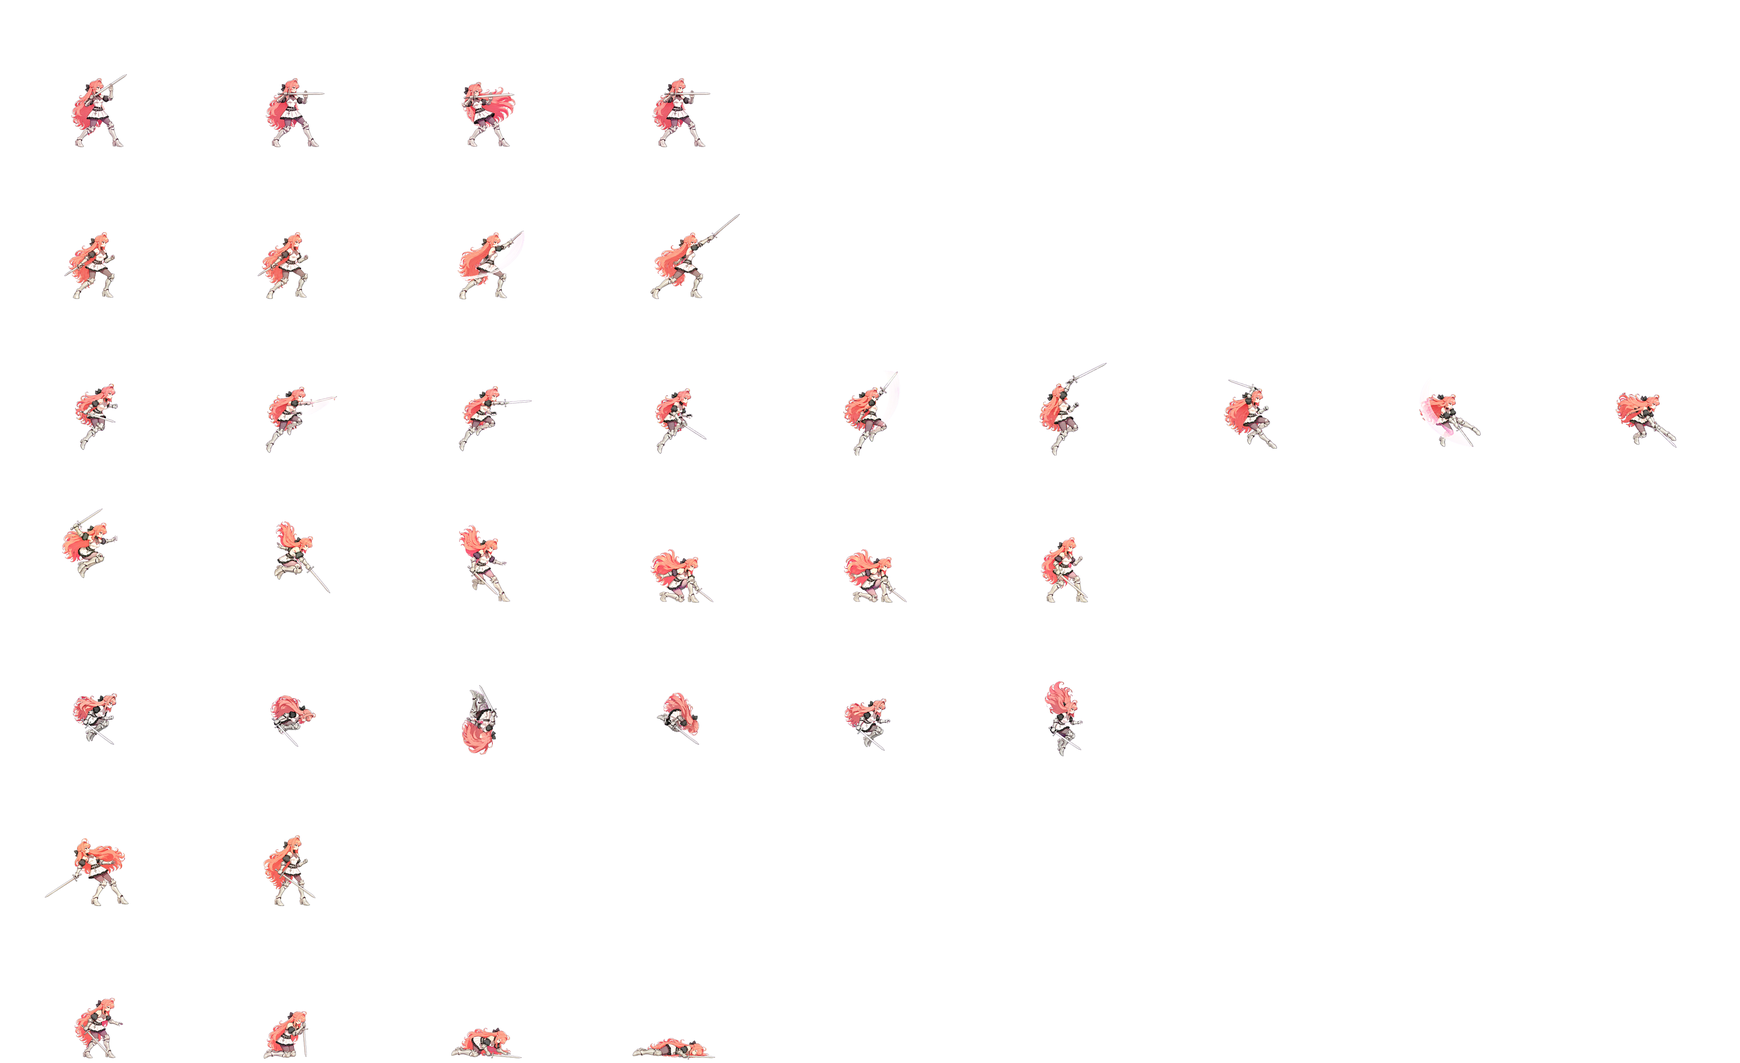
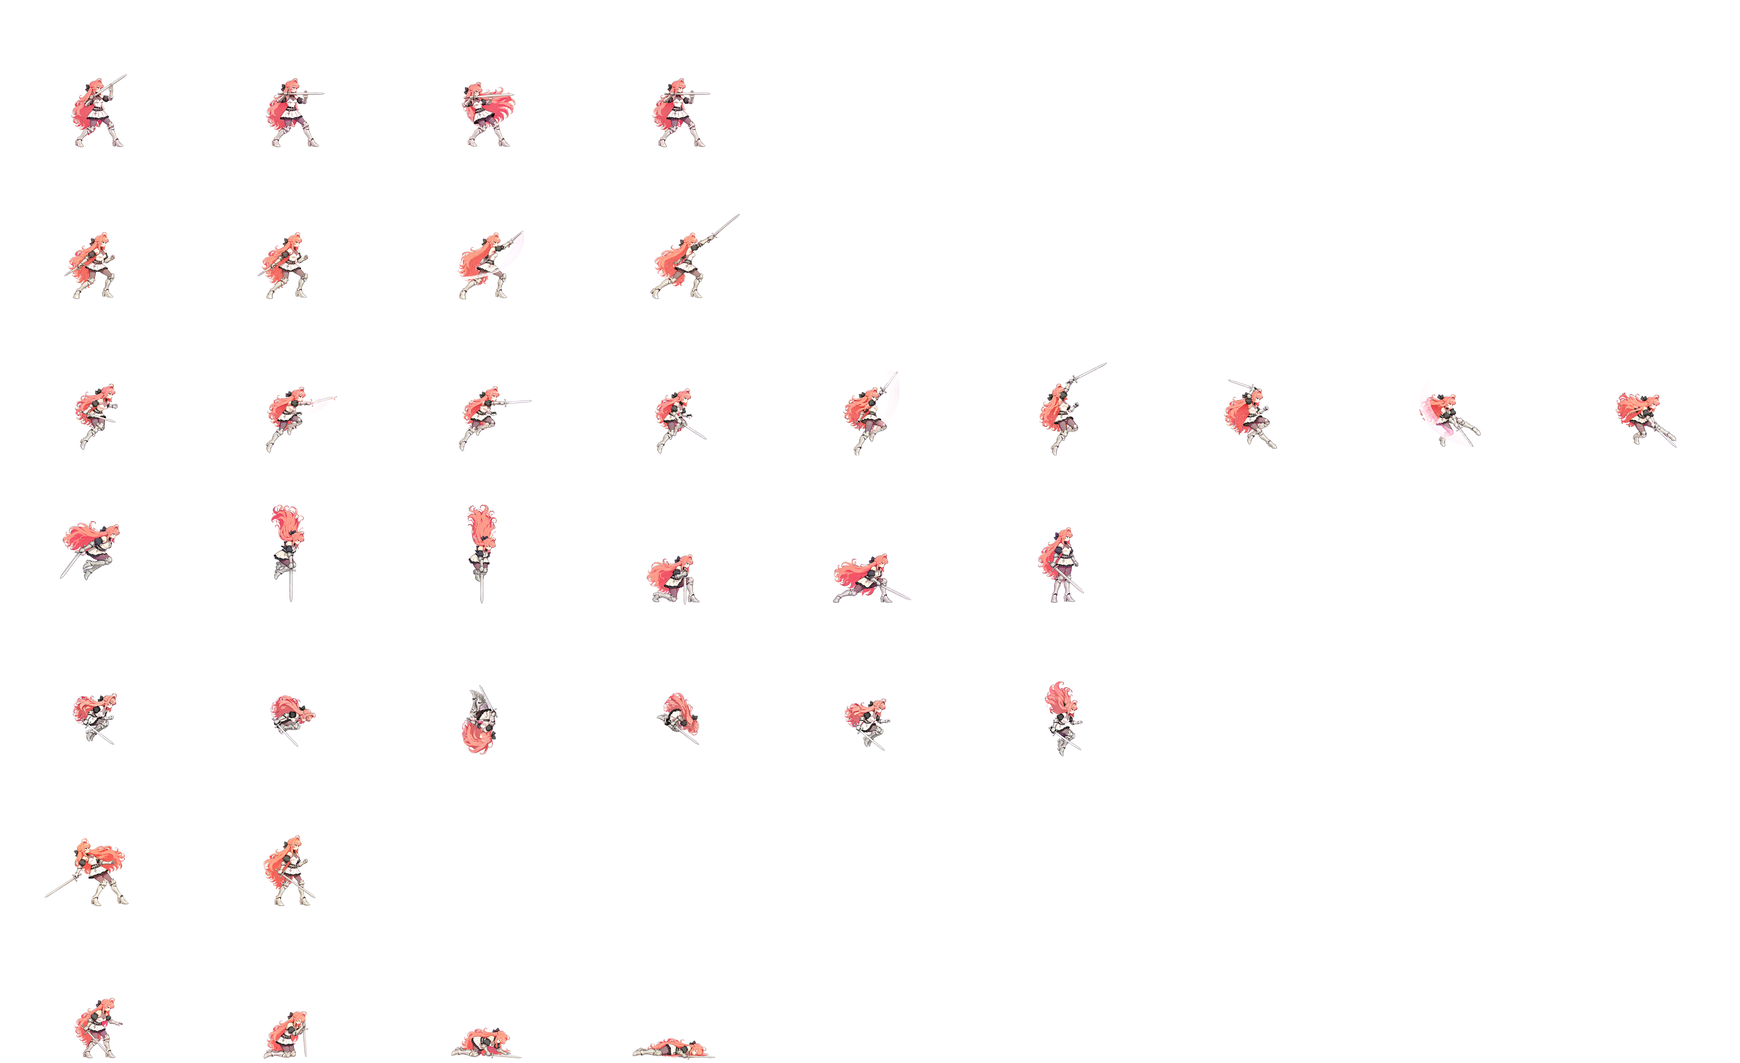
초심: third delivery (jump, runjump, kneel_attack, dive, teeter, run) and Aida's run bounce
- tools/make_skin_chosim.py takes estelle_v3 as a third folder: jump (the fall held for frames 4-5, then the
  landing crouch and the stand), runjump, kneel_attack (smear on the hit frame 3), dive (1:1; the held plunge keeps
  the art's height so the blade tip meets the floor on landing), teeter, run_8f rotated so its footfalls (3, 7)
  are frames 1 and 5. Same head-scale fit (matches 0.8-0.9). Walk is the only v1 (pink) row left.
- skin_data.gd: run at Aida's timing (80 / 75 ms, 620 ms) with Aida's bounce (chars.gd BOB aida run, her only run
  bounce: 3 px down on the contacts, 4 up after) instead of no bob.
- test_skin: 초심's run bob is Aida's (intended).
- docs: the v3 rows, run no longer awaiting a redraw (attack1 still is), walk the last pink row.

Claude-Session: https://claude.ai/code/session_01VqwGMT6BLxBYQ9bji8g8nf

diff --git a/tools/make_skin_chosim.py b/tools/make_skin_chosim.py
@@ -1,22 +1,25 @@
 #!/usr/bin/env python3
 """Build Estelle's 초심 (skin id estelle_base, the default) from the user's two deliveries into assets/skins/estelle_base/.
 
-usage: python3 tools/make_skin_chosim.py <estelle_v1 folder> <estelle_v2 folder> [contact-sheet folder] [--v1-loco] [--v1-st]
+usage: python3 tools/make_skin_chosim.py <estelle_v1 folder> <estelle_v2 folder> <estelle_v3 folder> [contact-sheet folder]
+       [--v1-idle] [--v1-loco] [--v1-st]
 
 estelle_v1 (the first delivery; magenta sheets on a loose grid, run / walk transparent):
-  jump_8f_magenta.png       crouch, take-off, rise, apex, fall, fall, land, land → row 6  jump
-  run6_magenta.png          running take-off (2 rows of 3)                       → row 7  runjump
   walk_43f.png              43-frame walk cycle (7 a row)                        → rows 36-37 walk, 10 of its frames (KEEP)
+  jump_8f_magenta.png, run6_magenta.png: the first jump / runjump, replaced by v3's
   idle_4f_magenta.png, walkstart / runstop / turn_4f_magenta.png, run_18f.png, ref_greenbg.png: the first idle, start,
                             stop, turn, run and standing art, replaced by v2's; --v1-idle / --v1-loco / --v1-st build them again
 estelle_v2 (one row per file, facing right, magenta unless noted):
   ref_greenbg.png (green) → row 0 idle: the standing picture, the same in all 4 frames (the game's idle breathing,
                             player.gd draw_frame, stretches the torso for the motion); the size reference; also st_base.png
-  run_15f.png (transparent, 4 a row) → row 35 run, 8 of 15     start_4f / stop_4f / turn_4f → rows 3 / 4 / 5
+  start_4f / stop_4f / turn_4f → rows 3 / 4 / 5
   attack1_5f (overhead slash) → 8   attack2_rising_5f → 9   attack3_thrust_5f → 10   kneel_4f → 11   kneel_attack_6f → 12
-  attack_high_5f → 13   guard_4f → 14   air_combo_9f → 16   dive_6f → 17 (6 of 6, one held twice, one left out)
-  double_jump_6f (somersault) → 18   hurt_2f → 19   death_4f → 20   dash_6f → 21   vow_3f → 22   air_guard_4f → 23
-  teeter_4f → 28   ref_greenbg.png (green) → st_base.png
+  attack_high_5f → 13   guard_4f → 14   air_combo_9f → 16   double_jump_6f (somersault) → 18   hurt_2f → 19   death_4f → 20   dash_6f → 21   vow_3f → 22   air_guard_4f → 23
+  ref_greenbg.png (green) → st_base.png
+  (v2's run_15f, kneel_attack_6f, dive_6f and teeter_4f: replaced by v3's)
+estelle_v3 (one row per file, facing right, magenta):
+  jump_8f → 6 (8 of 8: the fall held twice, the landing crouch and standing)   runjump_6f → 7   kneel_attack_6f → 12
+  dive_6f → 17   teeter_4f → 28   run_8f → 35 (8 a cycle, no sword: the user's choice)
 no art of their own, made from the cells above (COMPOSE): parry (15) and air_parry (24) — the user's call, "패링 모션은 공격
   모션으로 충당": attack2's rising cut and air_combo's rising cut; tag_in (26): dash into attack3's thrust; tag_out (27): runjump.
 
@@ -50,8 +53,8 @@ ROOT = os.path.join(os.path.dirname(__file__), '..')
 OUT = os.path.join(ROOT, 'assets/skins/estelle_base')
 args = [a for a in sys.argv[1:] if not a.startswith('--')]
 FLAGS = {a for a in sys.argv[1:] if a.startswith('--')}
-SRC1, SRC2 = args[0], args[1]
-CS = args[2] if len(args) > 2 else None
+SRC1, SRC2, SRC3 = args[0], args[1], args[2]
+CS = args[3] if len(args) > 3 else None
 V1_LOCO = '--v1-loco' in FLAGS
 V1_IDLE = '--v1-idle' in FLAGS
 CSCALE = 1.3                          # chars.gd SCALE estelle: a sheet pixel is 0.5 × 1.3 world px
@@ -66,8 +69,6 @@ def base_h(row):
 
 # ---------------- v1: as the first build made them ----------------
 SPEC1 = [  # name, file, key, cols, n, target row, grounded
-    ('jump', 'jump_8f_magenta.png', 'magenta', 4, 8, 6, False),
-    ('runjump', 'run6_magenta.png', 'magenta', 3, 6, 7, False),
     ('walk', 'walk_43f.png', None, 7, 43, 36, True),
 ]
 if V1_LOCO:
@@ -80,7 +81,7 @@ if V1_IDLE: SPEC1.insert(0, ('idle', 'idle_4f_magenta.png', 'magenta', 4, 4, 0, 
 # idle frame 0's head in its source pixels (cropped to the figure): crown, bow, face and chin, no loose hair
 HEAD_BOX = (150, 10, 275, 135) if V1_IDLE else (185, 20, 330, 170)
 HEAD_SCALES = (0.25, 1.31)              # the v2 idle's head is ~1.25x the v1 idle's in source pixels: room below 0.40
-GROUND1 = {'jump': [0, 6, 7], 'runjump': [0]}      # frames standing on the ground (verified by eye)
+GROUND1 = {}                            # v1 rows off the ground: none left (jump / runjump are v3's)
 
 # ---------------- v2 ----------------
 # file, frames in it, row, options:
@@ -88,35 +89,40 @@ GROUND1 = {'jump': [0, 6, 7], 'runjump': [0]}      # frames standing on the grou
 #   y      'ground' / 'air'               ground  for 'air': the frames standing on the floor
 #   x      'hip' / 'plant' / 'body'       plant   for 'plant': the frames that keep frame 0's back foot
 #   pick   source frame per game frame (default: all, in order)
+RUN_PICK = [2, 3, 4, 5, 6, 7, 0, 1]     # run_8f's footfalls are its frames 3 and 7 (gait below): on game frames 1 and 5
 SPEC2 = {
     'attack1': dict(file='attack1_5f.png', n=5, row=8, smear=True, x='plant', plant=[1, 2, 3]),
     'attack2': dict(file='attack2_rising_5f.png', n=5, row=9, smear=True, x='plant', plant=[1, 2, 3]),
     'attack3': dict(file='attack3_thrust_5f.png', n=5, row=10, smear=True, x='plant', plant=[1, 2, 3]),
     'kneel': dict(file='kneel_4f.png', n=4, row=11),
-    'kneel_attack': dict(file='kneel_attack_6f.png', n=6, row=12, smear=True),
+    'kneel_attack': dict(file='kneel_attack_6f.png', n=6, row=12, smear=True, src=3),     # the smear on frame 3 = the hit
     'attack_high': dict(file='attack_high_5f.png', n=5, row=13, smear=True, x='plant', plant=[1, 2, 3]),
     'guard': dict(file='guard_4f.png', n=4, row=14),
     'air_combo': dict(file='air_combo_9f.png', n=9, row=16, smear=True, y='air'),
     # dive: the game holds frame 2 while falling (chars.gd dive, player.gd: f 3 waits for the ground), 3 is the slam,
-    # 4-5 the recovery. Source 1 turns the blade down, 3 plunges feet first (the held fall); source 2 (a slanted forward
-    # dive) doesn't fit a straight drop and is left out; the landing kneel shows for the slam and the next frame
-    'dive': dict(file='dive_6f.png', n=6, row=17, y='air', ground=[4, 5], pick=[0, 1, 3, 4, 4, 5]),
+    # 4-5 the recovery: the art matches (blade down, the plunge held, landing kneel with the sword planted, rise, stand)
+    'dive': dict(file='dive_6f.png', n=6, row=17, y='air', ground=[3, 4, 5], src=3),
+    # jump: the game starts a standing jump on 2, holds 5 while falling (player.gd locomotion), lands on 6-7; the art's
+    # 5 is already the landing crouch, so its fall (4) is held for 4-5, then the crouch and the stand (7 = 6, unused)
+    'jump': dict(file='jump_8f.png', n=8, row=6, y='air', ground=[0, 5, 6, 7], pick=[0, 1, 2, 3, 4, 4, 5, 6], src=3),
+    # runjump: starts on 1, holds 4 in the air (the front foot reaching down), 5 lands into the run
+    'runjump': dict(file='runjump_6f.png', n=6, row=7, y='air', ground=[0, 5], src=3),
     'double_jump': dict(file='double_jump_6f.png', n=6, row=18, y='air', x='body'),
     'hurt': dict(file='hurt_2f.png', n=2, row=19),
     'death': dict(file='death_4f.png', n=4, row=20),
     'dash': dict(file='dash_6f.png', n=6, row=21, y='air', ground=[0, 4, 5]),
     'vow': dict(file='vow_3f.png', n=3, row=22),
     'air_guard': dict(file='air_guard_4f.png', n=4, row=23, y='air'),
-    'teeter': dict(file='teeter_4f.png', n=4, row=28),
+    'teeter': dict(file='teeter_4f.png', n=4, row=28, src=3),
 }
 if not V1_LOCO:
     SPEC2.update({
         'start': dict(file='start_4f.png', n=4, row=3),
         'stop': dict(file='stop_4f.png', n=4, row=4),
         'turn': dict(file='turn_4f.png', n=4, row=5),
-        # 15 frames for two steps, footfalls at 1 and 8: reach, contact, down, passing of each step, two source frames
-        # apart (7 → 8 is one); contacts land on game frames 1 and 5 like 기본's run (skins.steps' default)
-        'run': dict(file='run_15f.png', n=15, row=35, cols=4, key=None, pick=[14, 1, 3, 5, 7, 8, 10, 12]),
+        # 8 frames for two steps (contact, down, passing, flight each); rotated so the contacts are game frames 1 and 5
+        # like 기본's run (skins.steps' default) and the bob's dip (skin_data.gd) lands on them
+        'run': dict(file='run_8f.png', n=8, row=35, src=3, pick=RUN_PICK),
     })
 # rows with no art of their own: [anim, game frame] cells of the rows above
 COMPOSE = {
@@ -192,7 +198,7 @@ for nm, (fr, row, grounded, sh) in strips.items():
         f['cell'], f['clipped'] = render(f, k, f['hip'], f.get('lift', 0.0))
         put(row + i // 9, i % 9, f['cell'])
     cells[nm] = [f['cell'] for f in fr]
-    info[nm] = {'src': 'v1', 'row': row, 'n': len(fr), 'scale': round(k, 4), 'head_vs_idle': head[nm]['head_vs_idle'],
+    info[nm] = {'src': 'v2 ref' if nm == 'idle' and not V1_IDLE else 'v1', 'row': row, 'n': len(fr), 'scale': round(k, 4), 'head_vs_idle': head[nm]['head_vs_idle'],
                 'median_h': round(float(np.median([f['height'] for f in fr])) * k, 1), 'keep': KEEP.get(nm),
                 'clipped': [i for i, f in enumerate(fr) if f['clipped']]}
 
@@ -223,7 +229,7 @@ def measure2(f):
 
 raw2 = {}
 for nm, o in SPEC2.items():
-    path = os.path.join(SRC2, o['file'])
+    path = os.path.join(SRC3 if o.get('src') == 3 else SRC2, o['file'])
     key = o.get('key', 'magenta')
     im = S.key_out(path, key, smear=o.get('smear', False)) if key else np.asarray(Image.open(path).convert('RGBA'))
     fr = [measure2(f) for f in S.split_frames(im, o['n'], o.get('cols'))]
@@ -253,7 +259,7 @@ for nm, o in SPEC2.items():
     cells[nm] = [rendered[i][0] for i in pick]
     for j, c in enumerate(cells[nm]): put(o['row'] + j // 9, j % 9, c)
     if nm == 'run': full_cells['run'] = [c for c, _ in rendered]
-    info[nm] = {'src': 'v2', 'row': o['row'], 'n': len(pick), 'pick': pick, 'scale': round(k, 4), 'head_vs_idle': round(rel, 3),
+    info[nm] = {'src': 'v%d' % o.get('src', 2), 'row': o['row'], 'n': len(pick), 'pick': pick, 'scale': round(k, 4), 'head_vs_idle': round(rel, 3),
                 'head': [(f['head'][0], f['head'][1], f['head'][2]) for f in fr],
                 'h': [round(f['height'] * k) for f in fr], 'lift_px': [round(l * k) for l in lift],
                 'anchor_vs_hip_px': [round((ax[i] - f['hip']) * k) for i, f in enumerate(fr)],
@@ -310,7 +316,7 @@ def gait(full, kept, speed, n_ms):
             'seam_diff': round(seam, 2), 'mean_step_diff': round(inner, 2)}
 
 
-info['gait_run'] = gait(full_cells['run'], cells['run'], RUN_SPEED, 610.0)
+info['gait_run'] = gait(full_cells['run'], cells['run'], RUN_SPEED, 620.0)
 
 # bounds of the costume's own rows
 bnd = {}

diff --git a/docs/skin_assets.md b/docs/skin_assets.md
@@ -146,7 +146,7 @@ GPT·NAI에 포즈 레퍼런스로 넣을 때는 이 그림에서 해당 줄만 
 1. 위 파일들을 `assets/skins/<의상 id>/` 폴더에 넣는다
 2. 게임을 다시 빌드하거나 편집기로 한 번 연다(고도가 새 파일을 가져온다). 이 파일들을 assets/skins/<id>/ 에 넣으면 자동 인식된다. 코드는 고칠 필요가 없다
 3. 시트 다섯 장, `st_base`, `face`가 다 있으면 "준비 중"이 풀린다. 옷장과 의상 탭에서 입을 수 있고, 얻는 조건(명성, 상자, 레벨, 구매, 이야기)도 그때부터 정상으로 돈다
-4. 원본이 배경색(초록·자홍) 위에 그려졌거나, 프레임이 격자에 고르게 놓이지 않았거나, 크기가 시트와 다르면, 원본을 그대로 주면 된다. `tools/skin_slice.py`가 배경을 빼고, 프레임을 찾고, 크기·기준선·몸 중심을 맞춰 시트에 넣는다. 초심은 `tools/make_skin_chosim.py`로 이렇게 만들었다: `python3 tools/make_skin_chosim.py <estelle_v1 폴더> <estelle_v2 폴더> [대조표 폴더]`가 두 번 받은 그림 전부로 초심 시트 여섯 장·`st_base`·`bounds.gd`를 다시 만든다
+4. 원본이 배경색(초록·자홍) 위에 그려졌거나, 프레임이 격자에 고르게 놓이지 않았거나, 크기가 시트와 다르면, 원본을 그대로 주면 된다. `tools/skin_slice.py`가 배경을 빼고, 프레임을 찾고, 크기·기준선·몸 중심을 맞춰 시트에 넣는다. 초심은 `tools/make_skin_chosim.py`로 이렇게 만들었다: `python3 tools/make_skin_chosim.py <estelle_v1 폴더> <estelle_v2 폴더> <estelle_v3 폴더> [대조표 폴더]`가 세 번 받은 그림 전부로 초심 시트 여섯 장·`st_base`·`bounds.gd`를 다시 만든다
 
 ## 5. 도트화 셰이딩용 줄 정보 (선택)
 
@@ -160,34 +160,38 @@ GPT·NAI에 포즈 레퍼런스로 넣을 때는 이 그림에서 해당 줄만 
 
 ### 받아서 넣은 것 (줄 → 원본 파일)
 
-1차(`estelle_v1`)
-- 줄 6 jump 점프 8장 ← `jump_8f_magenta.png`
-- 줄 7 runjump 달려 점프 6장 ← `run6_magenta.png`
+1차(`estelle_v1`, 이제 걷기만)
 - 줄 36 ~ 37 walk 걷기 10장 ← `walk_43f.png` 중 10장(원본 2, 5, 9, 13, 18, 22, 26, 31, 37, 41번), 한 바퀴 1050 ms
 
 2차(`estelle_v2`)
 - 줄 0 idle 대기 4장 ← `ref_greenbg.png`(서 있는 그림, 초록 배경). 네 장이 같은 그림이고, 움직임은 게임의 숨쉬기(가슴이 몇 픽셀 늘었다 줄었다)가 준다. 크기 기준: 서 있는 키는 전과 같은 174 px(칸 위에서 166 ~ 339). 숨쉬기 기준선(목 211, 허리 259)은 새 자세의 목깃과 치맛단에 걸린다. 1차 대기(`idle_4f_magenta.png`)는 쓰지 않는다(`--v1-idle`로 되돌림)
 - 줄 3 start 출발 4장 ← `start_4f.png` · 줄 4 stop 멈춤 4장 ← `stop_4f.png` · 줄 5 turn 돌아서기 4장 ← `turn_4f.png` (1차 것을 바꿈)
-- 줄 35 run 달리기 8장 ← `run_15f.png`(15장, 투명) 중 8장: 원본 14, 1, 3, 5, 7, 8, 10, 12번(뻗음, 디딤, 내려앉음, 교차 × 두 걸음). 발이 닿는 장은 원본 1·8번 = 게임 1·5번(먼지·발소리). 한 장 80 ms, 원본 7→8은 한 칸 차이라 7번만 50 ms, 한 바퀴 610 ms(초당 약 3.3걸음). 처음과 끝이 이어지는 자리의 변화량이 걸음 안의 변화량과 같아서 고리가 매끄럽다. 보폭이 짧아 발이 조금 미끄러진다(발을 붙이려면 한 바퀴 398 ms여야 함)
 - 줄 8 attack1 1타 5장 ← `attack1_5f.png` (위에서 비스듬히 내려 베기)
 - 줄 9 attack2 2타 5장 ← `attack2_rising_5f.png` (올려 베기)
 - 줄 10 attack3 3타 5장 ← `attack3_thrust_5f.png` (내디디며 찌르기. 모아 찌르기 charge / cthrust도 이 줄을 씀)
-- 줄 11 kneel 앉기 4장 ← `kneel_4f.png` · 줄 12 kneel_attack 앉아 베기 6장 ← `kneel_attack_6f.png`
+- 줄 11 kneel 앉기 4장 ← `kneel_4f.png`
 - 줄 13 attack_high 올려 베기 5장 ← `attack_high_5f.png`
 - 줄 14 guard 막기 4장 ← `guard_4f.png` (검을 가로로 들어 막음. 3번째 장 = 맞는 순간) · 줄 23 air_guard 공중 막기 4장 ← `air_guard_4f.png`
 - 줄 16 air_combo 공중 3연타 9장 ← `air_combo_9f.png`
-- 줄 17 dive 내려찍기 6장 ← `dive_6f.png`: 원본 1, 2, 4, 5, 5, 6번째 장(게임은 3번째 장에서 떨어지는 동안 멈추고, 4번째 장이 착지 충격). 원본 3번째 장(앞으로 비스듬히 날아드는 자세)은 곧장 아래로 떨어지는 게임 동작과 맞지 않아 뺐고, 무릎 꿇는 착지 장을 두 번 쓴다
 - 줄 18 double_jump 2단 점프(공중제비) 6장 ← `double_jump_6f.png`
 - 줄 19 hurt 피격 2장 ← `hurt_2f.png` · 줄 20 death 쓰러짐 4장 ← `death_4f.png`
 - 줄 21 dash 대시 6장 ← `dash_6f.png` (공중 대시도 이 줄의 1 ~ 3번 장)
-- 줄 22 vow 궁극기 맹세 3장 ← `vow_3f.png` · 줄 28 teeter 낭떠러지 휘청 4장 ← `teeter_4f.png`(고친 판)
+- 줄 22 vow 궁극기 맹세 3장 ← `vow_3f.png`
 - 서 있는 그림 `st_base` ← 2차 `ref_greenbg.png`(더 깔끔하고, 2차 그림의 머리색과 같다)
+
+3차(`estelle_v3`)
+- 줄 6 jump 점프 8장 ← `jump_8f.png`: 원본 0, 1, 2, 3, 4, 4, 5, 6번 장. 게임은 떨어지는 동안 5번째 장에 머무는데 원본의 5번 장은 이미 착지 웅크림이라, 떨어지는 장(4번)을 두 번 쓰고 착지 웅크림·서기를 6·7번째 장에 둔다(원본 7번 장은 6번과 같아 뺌)
+- 줄 7 runjump 달려 점프 6장 ← `runjump_6f.png`
+- 줄 12 kneel_attack 하단 베기 6장 ← `kneel_attack_6f.png` (잔상 = 4번째 장 = 타격 장)
+- 줄 17 dive 내려찍기 6장 ← `dive_6f.png`: 장수 그대로. 3번째 장(칼끝을 곧장 아래로 세운 자세)이 떨어지는 동안 멈춰 있는 장이고 원본의 높이를 살려서 칼끝이 바닥에 닿을 때 착지한다. 4번째 장(칼을 박고 무릎 꿇은 착지)이 충격 장, 5·6번째 장이 일어서기
+- 줄 28 teeter 낭떠러지 휘청 4장 ← `teeter_4f.png`
+- 줄 35 run 달리기 8장 ← `run_8f.png`(두 걸음 한 바퀴). 원본에서 발이 닿는 장은 3·7번이라 2번부터 돌려 게임 1·5번째 장이 디딤(먼지·발소리)이 되게 했다. 아이다 달리기와 같은 시간(80 / 75 ms, 한 바퀴 620 ms)과 같은 바운스(아이다의 `BOB` 표: 디딤에서 3 px 내려가고 다음 장에서 4 px 올라감, 몸 전체를 위아래로)를 쓴다. 아이다 달리기의 바운스는 이 표가 전부다(찌그러짐·늘어남 같은 다른 처리는 없음). 이번 달리기에도 칼이 없다(사용자 선택). 보폭이 짧아 발이 조금 미끄러진다(붙이려면 한 바퀴 439 ms)
 
 그림이 없어 다른 줄 그림을 다시 쓴 줄
 - 줄 15 parry 패링 ← attack2(올려 베기)의 1, 1, 2, 3번 장. "패링 모션은 공격 모션으로 충당". 막는 자세에서 칼을 올려 쳐 튕겨 내는 모양이다. 패링 판정(앞 두 장 180 + 35 ms)은 그대로이고, 게임은 패링이 성공하기 전까지 막기 2번째 장을 보여 준다. 성공하면 올려 베는 장 110 ms, 칼을 든 장 240 ms(원래 200 + 150과 합이 같다)
 - 줄 24 air_parry 공중 패링 ← air_combo 2타(올려 베기)의 3, 3, 4, 5번 장. 시간은 패링과 같다
 - 줄 26 tag_in 교대 등장 ← dash 1, 2번 장 + attack3 1 ~ 4번 장(달려들어 찌르기, 찌르는 장에서 타격)
-- 줄 27 tag_out 교대 퇴장 ← runjump 1 ~ 4번 장(뛰어 빠짐)
+- 줄 27 tag_out 교대 퇴장 ← runjump 1 ~ 4번 장(뛰어 빠짐, 3차 달려 점프)
 
 나머지 동작의 장수와 시간은 원래 표(`chars.gd` A_EST)와 같다. 그림의 장수가 게임의 장수와 맞고, 잔상(스미어)이 그려진 장이 타격 장에 온다: attack1·2·3·attack_high 3번째 장, kneel_attack 4번째 장, air_combo 2·5·8번째 장.
 
@@ -201,10 +205,10 @@ GPT·NAI에 포즈 레퍼런스로 넣을 때는 이 그림에서 해당 줄만 
 
 ### 알아 둘 것 (그림 문제)
 
-- **다시 뽑을 것: attack1 내려 베기(줄 8), run 달리기(줄 35).** 사용자가 새로 그릴 예정이라 지금 그림은 임시다. 받으면 `estelle_v2`에 같은 이름으로 넣고 도구를 다시 돌리면 된다(장수가 다르면 도구의 `SPEC2` 해당 줄의 `n`·`pick`을 고친다)
+- **다시 뽑을 것: attack1 내려 베기(줄 8).** 사용자가 새로 그릴 예정이라 지금 그림은 임시다(달리기는 3차로 바꿨다). 받으면 `estelle_v2`에 같은 이름으로 넣고 도구를 다시 돌리면 된다(장수가 다르면 도구의 `SPEC2` 해당 줄의 `n`·`pick`을 고친다)
 
-- **2차 달리기·출발·멈춤·돌아서기에는 칼이 없다.** 대기·점프·걷기와 공격 줄은 칼을 들고 있어서, 대기 → 출발, 달리기 → 공격·점프로 넘어갈 때 칼이 사라졌다 나타난다. 칼을 든 달리기 4종을 다시 받으면 좋다. 1차 것으로 되돌리려면 도구에 `--v1-loco`(서 있는 그림은 `--v1-st`)
-- **머리색이 두 묶음으로 다르다.** 1차(점프·달려 점프·걷기)는 분홍, 2차(대기 포함)는 살구빛(색상 약 5 ~ 8° 더 주황). 대기가 2차 그림이 되어 대기 ↔ 공격은 맞고, 대기 ↔ 점프·걷기에서 눈에 띌 수 있다. 점프·달려 점프·걷기를 2차 색으로 다시 받으면 맞는다
+- **달리기(3차)·출발·멈춤·돌아서기(2차)에는 칼이 없다.** 대기·점프·걷기와 공격 줄은 칼을 들고 있어서, 대기 → 출발, 달리기 → 공격·점프로 넘어갈 때 칼이 사라졌다 나타난다. 칼을 든 달리기 4종을 다시 받으면 좋다. 1차 것으로 되돌리려면 도구에 `--v1-loco`(서 있는 그림은 `--v1-st`)
+- **1차(분홍 머리) 그림은 이제 걷기(줄 36 ~ 37) 하나만 남았다.** 나머지는 2·3차의 살구빛 머리(색상 약 5 ~ 8° 더 주황)라, 마을에서 동료가 걸을 때만 색이 다르게 보인다. 걷기를 새로 받으면 맞는다
 - hurt 첫 장은 머리를 뒤(왼쪽)로 젖혀 얼굴이 반대쪽을 보는 것처럼 읽힌다. 맞고 젖혀지는 동작으로는 쓸 만해서 그대로 넣었다
 - 게임도 공격마다 자체 베기 효과(분홍 호·찌르기 줄)를 그린다. 그림 속 잔상과 겹쳐 두 겹으로 보인다(원래 그림도 잔상이 그려져 있어 전에도 그랬다). 효과는 그대로 두었다
 
